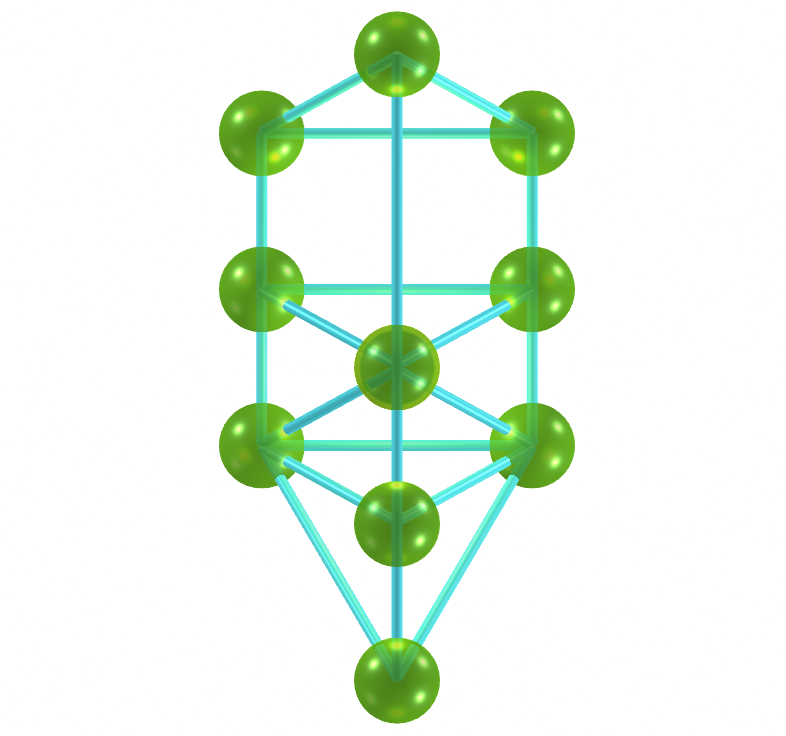
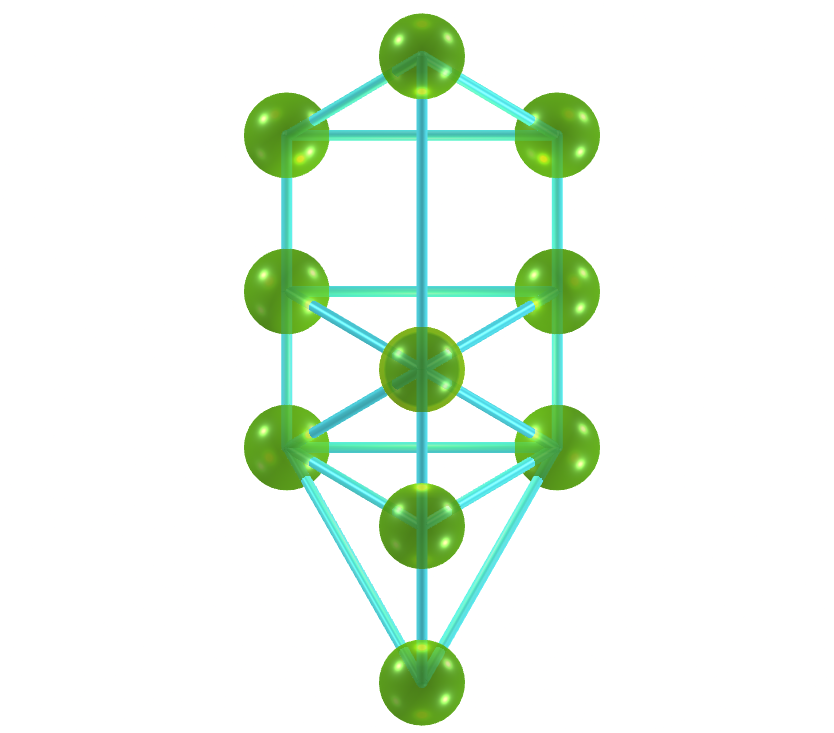
update

diff --git a/symbols/ra.html b/symbols/ra.html
@@ -42,6 +42,7 @@
 		<a-mixin id="mtl2t1" material=" color: #4ef; opacity:0.7; metalness:0.4; roughness:0.2"></a-mixin>
 		<a-mixin id="esferat1" mixin="mtl1t1" geometry="radius: 0.55;" material="metalness:0.4; side:double; roughness:0.3;"></a-mixin>
 		<a-mixin id="arestast1" mixin="mtl2t1" geometry="radius: 0.07; height:3" material="metalness:0.4; roughness:0.3;"></a-mixin>
+		<a-mixin id="esferadt1" mixin="mtl2t1" geometry="radius: 0.07;" material="metalness:0.4; roughness:0.3;"></a-mixin>
 		<a-mixin id="mtl1f3" material="color: #e33; opacity:0.7; metalness:0.4; roughness:0.2"></a-mixin>
 		<a-mixin id="trf3" geometry="radius-tubular:0.03; arc:360; radius:1; segments-tubular: 43" mixin="mtl1f3"></a-mixin>
 		<a-mixin id="mtl4f4" material="color: #e33; side:double; opacity:0.7; metalness:0.4; roughness:0.2"></a-mixin>
@@ -1042,7 +1043,7 @@
 	
 	<a-marker type="barcode" value="11" smooth="smooth:true; smoothCount:1" cursor="fuse: false; rayOrigin: mouse;" raycaster="objects: .clickable" emitevents="true">
 		<a-link mixin="lnk" class="lnk" href="vr/TreeOfLife.htm"></a-link>
-	   	<a-entity position="2 -2.4 0" scale="0.28 0.28 0.28" gesture-handler>
+	   	<a-entity position="2 0.9 0" scale="0.5 0.5 0.5" gesture-handler>
 			<a-entity>
 				<a-cylinder mixin="arestast1" position="-1.732 1 -1" height="4"></a-cylinder>
 				<a-cylinder mixin="arestast1" position="1.732 1 -1" height="4"></a-cylinder>
@@ -1051,16 +1052,26 @@
 				<a-cylinder mixin="arestast1" rotation="0 0 90" position="0 1 -1" height="3.46"></a-cylinder>
 				<a-cylinder mixin="arestast1" rotation="0 0 90" position="0 -1 -1" height="3.46"></a-cylinder>
 				<a-cylinder mixin="arestast1" rotation="0 0 90" position="0 3 -1" height="3.46"></a-cylinder>
-				<a-cylinder mixin="arestast1" rotation="-30 -61 113" position="-0.86 -0.5 0" height="2.8"></a-cylinder>
-				<a-cylinder mixin="arestast1" rotation="-30 61 -113" position="0.86 -0.5 0" height="2.8"></a-cylinder>
-				<a-cylinder mixin="arestast1" rotation="30 -61 -113" position="-0.86 -1.5 0" height="2.8"></a-cylinder>
-				<a-cylinder mixin="arestast1" rotation="30 -61 -113" position="-0.86 0.5 0" height="2.8"></a-cylinder>
-				<a-cylinder mixin="arestast1" rotation="30 61 113" position="0.86 -1.5 0" height="2.8"></a-cylinder>
-				<a-cylinder mixin="arestast1" rotation="30 61 113" position="0.86 0.5 0" height="2.8"></a-cylinder>
-				<a-cylinder mixin="arestast1" rotation="-30 61 -113" position="0.86 3.5 0" height="2.8"></a-cylinder>
-				<a-cylinder mixin="arestast1" rotation="-30 -61 113" position="-0.86 3.5 0" height="2.8"></a-cylinder>
-				<a-cylinder mixin="arestast1" rotation="-2 47 138" position="0.86 -2.5 0" height="3.95"></a-cylinder>
-				<a-cylinder mixin="arestast1" rotation="-2 -47 -138" position="-0.86 -2.5 0" height="3.95"></a-cylinder>
+				<a-cylinder mixin="arestast1" rotation="-30.5 -62.4 114.5" position="-0.86 -0.5 0" height="2.8"></a-cylinder>
+				<a-cylinder mixin="arestast1" rotation="-30.5 62.4 -114.5" position="0.86 -0.5 0" height="2.8"></a-cylinder>
+				<a-cylinder mixin="arestast1" rotation="30.5 -62.4 -114.5" position="-0.86 -1.5 0" height="2.8"></a-cylinder>
+				<a-cylinder mixin="arestast1" rotation="30.5 -62.4 -114.5" position="-0.86 0.5 0" height="2.8"></a-cylinder>
+				<a-cylinder mixin="arestast1" rotation="30.5 62.4 114.5" position="0.86 -1.5 0" height="2.8"></a-cylinder>
+				<a-cylinder mixin="arestast1" rotation="30.5 62.4 114.5" position="0.86 0.5 0" height="2.8"></a-cylinder>
+				<a-cylinder mixin="arestast1" rotation="-30.5 62.4 -114.5" position="0.86 3.5 0" height="2.8"></a-cylinder>
+				<a-cylinder mixin="arestast1" rotation="-30.5 -62.4 114.5" position="-0.86 3.5 0" height="2.8"></a-cylinder>
+				<a-cylinder mixin="arestast1" rotation="-3 46 138.7" position="0.86 -2.5 0" height="3.95"></a-cylinder>
+				<a-cylinder mixin="arestast1" rotation="-3 -46 -138.7" position="-0.86 -2.5 0" height="3.95"></a-cylinder>
+				<a-sphere mixin="esferat1d" position="0 0 1"></a-sphere>
+				<a-sphere mixin="esferat1d" position="0 -2 1"></a-sphere>
+				<a-sphere mixin="esferat1d" position="0 -4 1"></a-sphere>
+				<a-sphere mixin="esferat1d" position="0 4 1"></a-sphere>
+				<a-sphere mixin="esferat1d" position="1.732 1 -1"></a-sphere>
+				<a-sphere mixin="esferat1d" position="1.732 3 -1"></a-sphere>
+				<a-sphere mixin="esferat1d" position="1.732 -1 -1"></a-sphere>
+				<a-sphere mixin="esferat1d" position="-1.732 1 -1"></a-sphere>
+				<a-sphere mixin="esferat1d" position="-1.732 3 -1"></a-sphere>
+				<a-sphere mixin="esferat1d" position="-1.732 -1 -1"></a-sphere>
 				<a-sphere mixin="esferat1" position="0 0 1"></a-sphere>
 				<a-sphere mixin="esferat1" position="0 -2 1"></a-sphere>
 				<a-sphere mixin="esferat1" position="0 -4 1"></a-sphere>

diff --git a/symbols/sala1.htm b/symbols/sala1.htm
@@ -38,6 +38,7 @@
 			<a-mixin id="mtl2t1" material=" color: #4ef; opacity:0.7; metalness:0.4; roughness:0.2"></a-mixin>
 			<a-mixin id="esferat1" mixin="mtl1t1" geometry="radius: 0.55;" material="metalness:0.4; side:double; roughness:0.3;"></a-mixin>
 			<a-mixin id="arestast1" mixin="mtl2t1" geometry="radius: 0.07;" material="metalness:0.4; roughness:0.3;"></a-mixin>
+			<a-mixin id="esferadt1" mixin="mtl2t1" geometry="radius: 0.07;" material="metalness:0.4; roughness:0.3;"></a-mixin>
 			<a-mixin id="mtl1f3" material=" color: #e33; opacity:0.7; metalness:0.4; roughness:0.2"></a-mixin>
 			<a-mixin id="trf3" geometry="radius-tubular:0.03; arc:360; radius:1; segments-tubular: 43" mixin="mtl1f3"></a-mixin>
 			<a-mixin id="mtl4f4" material=" color: #e33; side:double; opacity:0.7; metalness:0.4; roughness:0.2"></a-mixin>
@@ -832,7 +833,7 @@
 			<a-sphere mixin="trf4" position="-2.155 -2.155 2.155"></a-sphere>
 		</a-entity>
 	
-		<a-entity class="poli" mixin="poli1" position="-1.1 1.15 2" scale="0.057 0.057 0.057" shadow>
+		<a-entity class="poli" mixin="poli1" position="-1.1 1.25 2" scale="0.1 0.1 0.1" shadow>
 			<a-entity>
 				<a-cylinder mixin="arestast1" position="-1.732 1 -1" height="4"></a-cylinder>
 				<a-cylinder mixin="arestast1" position="1.732 1 -1" height="4"></a-cylinder>
@@ -841,16 +842,26 @@
 				<a-cylinder mixin="arestast1" rotation="0 0 90" position="0 1 -1" height="3.46"></a-cylinder>
 				<a-cylinder mixin="arestast1" rotation="0 0 90" position="0 -1 -1" height="3.46"></a-cylinder>
 				<a-cylinder mixin="arestast1" rotation="0 0 90" position="0 3 -1" height="3.46"></a-cylinder>
-				<a-cylinder mixin="arestast1" rotation="-30 -61 113" position="-0.86 -0.5 0" height="2.8"></a-cylinder>
-				<a-cylinder mixin="arestast1" rotation="-30 61 -113" position="0.86 -0.5 0" height="2.8"></a-cylinder>
-				<a-cylinder mixin="arestast1" rotation="30 -61 -113" position="-0.86 -1.5 0" height="2.8"></a-cylinder>
-				<a-cylinder mixin="arestast1" rotation="30 -61 -113" position="-0.86 0.5 0" height="2.8"></a-cylinder>
-				<a-cylinder mixin="arestast1" rotation="30 61 113" position="0.86 -1.5 0" height="2.8"></a-cylinder>
-				<a-cylinder mixin="arestast1" rotation="30 61 113" position="0.86 0.5 0" height="2.8"></a-cylinder>
-				<a-cylinder mixin="arestast1" rotation="-30 61 -113" position="0.86 3.5 0" height="2.8"></a-cylinder>
-				<a-cylinder mixin="arestast1" rotation="-30 -61 113" position="-0.86 3.5 0" height="2.8"></a-cylinder>
-				<a-cylinder mixin="arestast1" rotation="-2 47 138" position="0.86 -2.5 0" height="3.95"></a-cylinder>
-				<a-cylinder mixin="arestast1" rotation="-2 -47 -138" position="-0.86 -2.5 0" height="3.95"></a-cylinder>
+				<a-cylinder mixin="arestast1" rotation="-30.5 -62.4 114.5" position="-0.86 -0.5 0" height="2.8"></a-cylinder>
+				<a-cylinder mixin="arestast1" rotation="-30.5 62.4 -114.5" position="0.86 -0.5 0" height="2.8"></a-cylinder>
+				<a-cylinder mixin="arestast1" rotation="30.5 -62.4 -114.5" position="-0.86 -1.5 0" height="2.8"></a-cylinder>
+				<a-cylinder mixin="arestast1" rotation="30.5 -62.4 -114.5" position="-0.86 0.5 0" height="2.8"></a-cylinder>
+				<a-cylinder mixin="arestast1" rotation="30.5 62.4 114.5" position="0.86 -1.5 0" height="2.8"></a-cylinder>
+				<a-cylinder mixin="arestast1" rotation="30.5 62.4 114.5" position="0.86 0.5 0" height="2.8"></a-cylinder>
+				<a-cylinder mixin="arestast1" rotation="-30.5 62.4 -114.5" position="0.86 3.5 0" height="2.8"></a-cylinder>
+				<a-cylinder mixin="arestast1" rotation="-30.5 -62.4 114.5" position="-0.86 3.5 0" height="2.8"></a-cylinder>
+				<a-cylinder mixin="arestast1" rotation="-3 46 138.7" position="0.86 -2.5 0" height="3.95"></a-cylinder>
+				<a-cylinder mixin="arestast1" rotation="-3 -46 -138.7" position="-0.86 -2.5 0" height="3.95"></a-cylinder>
+				<a-sphere mixin="esferat1dt1" position="0 0 1"></a-sphere>
+				<a-sphere mixin="esferat1dt1" position="0 -2 1"></a-sphere>
+				<a-sphere mixin="esferat1dt1" position="0 -4 1"></a-sphere>
+				<a-sphere mixin="esferat1dt1" position="0 4 1"></a-sphere>
+				<a-sphere mixin="esferat1dt1" position="1.732 1 -1"></a-sphere>
+				<a-sphere mixin="esferat1dt1" position="1.732 3 -1"></a-sphere>
+				<a-sphere mixin="esferat1dt1" position="1.732 -1 -1"></a-sphere>
+				<a-sphere mixin="esferat1dt1" position="-1.732 1 -1"></a-sphere>
+				<a-sphere mixin="esferat1dt1" position="-1.732 3 -1"></a-sphere>
+				<a-sphere mixin="esferat1dt1" position="-1.732 -1 -1"></a-sphere>
 				<a-sphere mixin="esferat1" position="0 0 1"></a-sphere>
 				<a-sphere mixin="esferat1" position="0 -2 1"></a-sphere>
 				<a-sphere mixin="esferat1" position="0 -4 1"></a-sphere>

diff --git a/symbols/vr/TreeOfLife.htm b/symbols/vr/TreeOfLife.htm
@@ -17,6 +17,7 @@
 			<a-mixin id="mtl3" material="side: double; color: #0088ff; opacity:0.7; metalness:0.4; roughness:0.2"></a-mixin>
 			<a-mixin id="mtl4" material="side: double; color: #ffcc00; opacity:0.08; metalness:0.4; roughness:0.2"></a-mixin>
 			<a-mixin id="esfera" mixin="mtl1" geometry="radius: 0.55;" material="metalness:0.4; side:double; roughness:0.3;"></a-mixin>
+			<a-mixin id="esferad" mixin="mtl2" geometry="radius: 0.07;" material="metalness:0.4; roughness:0.3;"></a-mixin>
 			<a-mixin id="arestas" mixin="mtl2" geometry="radius: 0.07;" material="metalness:0.4; roughness:0.3;">
 		</a-assets>
 		<a-entity camera="fov:1; near:1;" orbit-controls="target: 0 0 0; maxPolarAngle: 180; minDistance: 0.5; initialPosition: 0 0 700; minDistance: 500; maxDistance: 1100;"></a-entity>
@@ -31,16 +32,26 @@
 				<a-cylinder mixin="arestas" rotation="0 0 90" position="0 1 -1" height="3.46"></a-cylinder>
 				<a-cylinder mixin="arestas" rotation="0 0 90" position="0 -1 -1" height="3.46"></a-cylinder>
 				<a-cylinder mixin="arestas" rotation="0 0 90" position="0 3 -1" height="3.46"></a-cylinder>
-				<a-cylinder mixin="arestas" rotation="-30 -61 113" position="-0.86 -0.5 0" height="2.8"></a-cylinder>
-				<a-cylinder mixin="arestas" rotation="-30 61 -113" position="0.86 -0.5 0" height="2.8"></a-cylinder>
-				<a-cylinder mixin="arestas" rotation="30 -61 -113" position="-0.86 -1.5 0" height="2.8"></a-cylinder>
-				<a-cylinder mixin="arestas" rotation="30 -61 -113" position="-0.86 0.5 0" height="2.8"></a-cylinder>
-				<a-cylinder mixin="arestas" rotation="30 61 113" position="0.86 -1.5 0" height="2.8"></a-cylinder>
-				<a-cylinder mixin="arestas" rotation="30 61 113" position="0.86 0.5 0" height="2.8"></a-cylinder>
-				<a-cylinder mixin="arestas" rotation="-30 61 -113" position="0.86 3.5 0" height="2.8"></a-cylinder>
-				<a-cylinder mixin="arestas" rotation="-30 -61 113" position="-0.86 3.5 0" height="2.8"></a-cylinder>
-				<a-cylinder mixin="arestas" rotation="-2 47 138" position="0.86 -2.5 0" height="3.95"></a-cylinder>
-				<a-cylinder mixin="arestas" rotation="-2 -47 -138" position="-0.86 -2.5 0" height="3.95"></a-cylinder>
+				<a-cylinder mixin="arestas" rotation="-30.5 -62.4 114.5" position="-0.86 -0.5 0" height="2.8"></a-cylinder>
+				<a-cylinder mixin="arestas" rotation="-30.5 62.4 -114.5" position="0.86 -0.5 0" height="2.8"></a-cylinder>
+				<a-cylinder mixin="arestas" rotation="30.5 -62.4 -114.5" position="-0.86 -1.5 0" height="2.8"></a-cylinder>
+				<a-cylinder mixin="arestas" rotation="30.5 -62.4 -114.5" position="-0.86 0.5 0" height="2.8"></a-cylinder>
+				<a-cylinder mixin="arestas" rotation="30.5 62.4 114.5" position="0.86 -1.5 0" height="2.8"></a-cylinder>
+				<a-cylinder mixin="arestas" rotation="30.5 62.4 114.5" position="0.86 0.5 0" height="2.8"></a-cylinder>
+				<a-cylinder mixin="arestas" rotation="-30.5 62.4 -114.5" position="0.86 3.5 0" height="2.8"></a-cylinder>
+				<a-cylinder mixin="arestas" rotation="-30.5 -62.4 114.5" position="-0.86 3.5 0" height="2.8"></a-cylinder>
+				<a-cylinder mixin="arestas" rotation="-3 46 138.7" position="0.86 -2.5 0" height="3.95"></a-cylinder>
+				<a-cylinder mixin="arestas" rotation="-3 -46 -138.7" position="-0.86 -2.5 0" height="3.95"></a-cylinder>
+				<a-sphere mixin="esferad" position="0 0 1"></a-sphere>
+				<a-sphere mixin="esferad" position="0 -2 1"></a-sphere>
+				<a-sphere mixin="esferad" position="0 -4 1"></a-sphere>
+				<a-sphere mixin="esferad" position="0 4 1"></a-sphere>
+				<a-sphere mixin="esferad" position="1.732 1 -1"></a-sphere>
+				<a-sphere mixin="esferad" position="1.732 3 -1"></a-sphere>
+				<a-sphere mixin="esferad" position="1.732 -1 -1"></a-sphere>
+				<a-sphere mixin="esferad" position="-1.732 1 -1"></a-sphere>
+				<a-sphere mixin="esferad" position="-1.732 3 -1"></a-sphere>
+				<a-sphere mixin="esferad" position="-1.732 -1 -1"></a-sphere>
 				<a-sphere mixin="esfera" position="0 0 1"></a-sphere>
 				<a-sphere mixin="esfera" position="0 -2 1"></a-sphere>
 				<a-sphere mixin="esfera" position="0 -4 1"></a-sphere>
